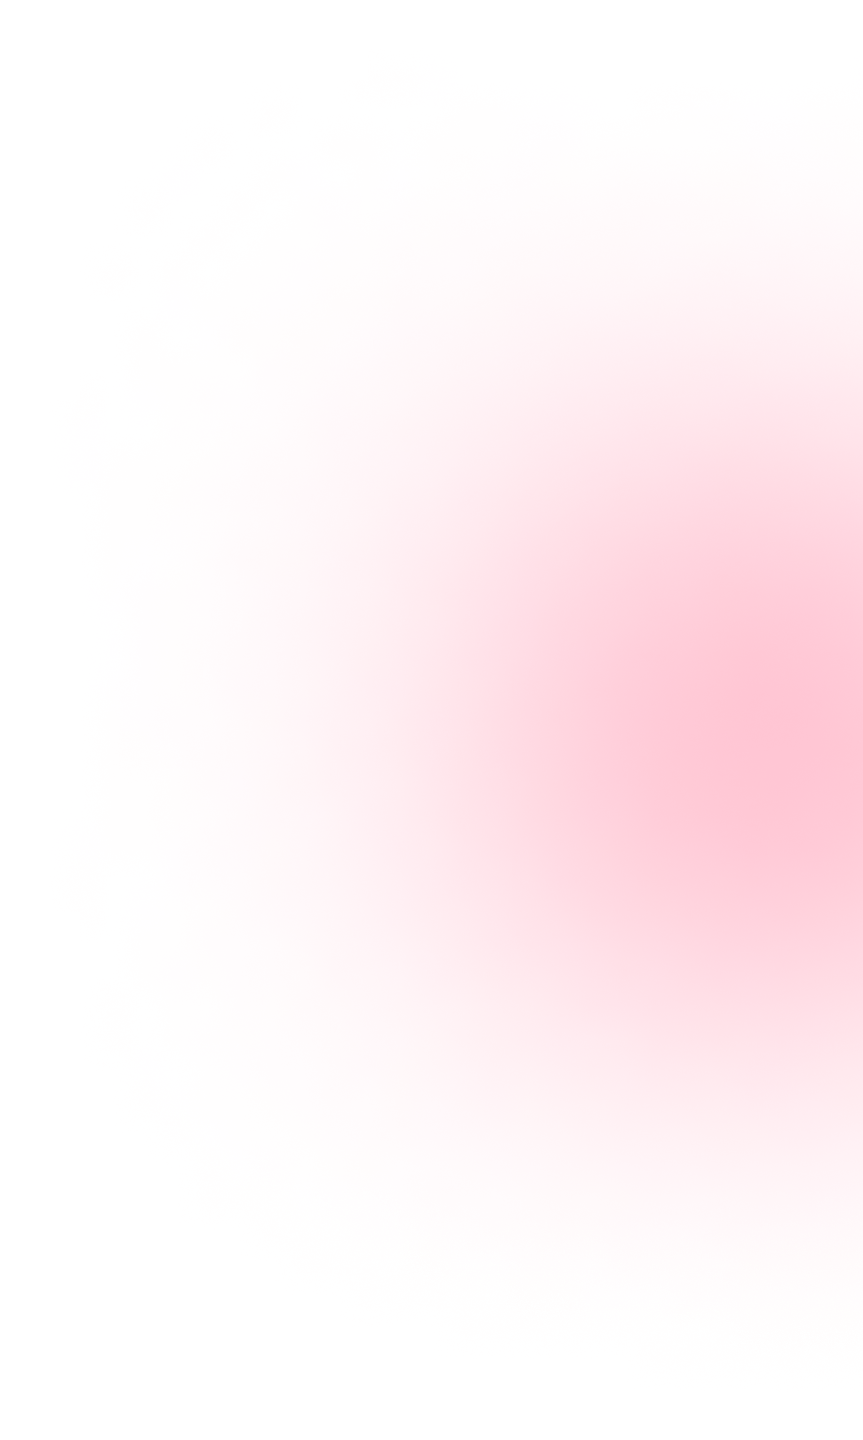
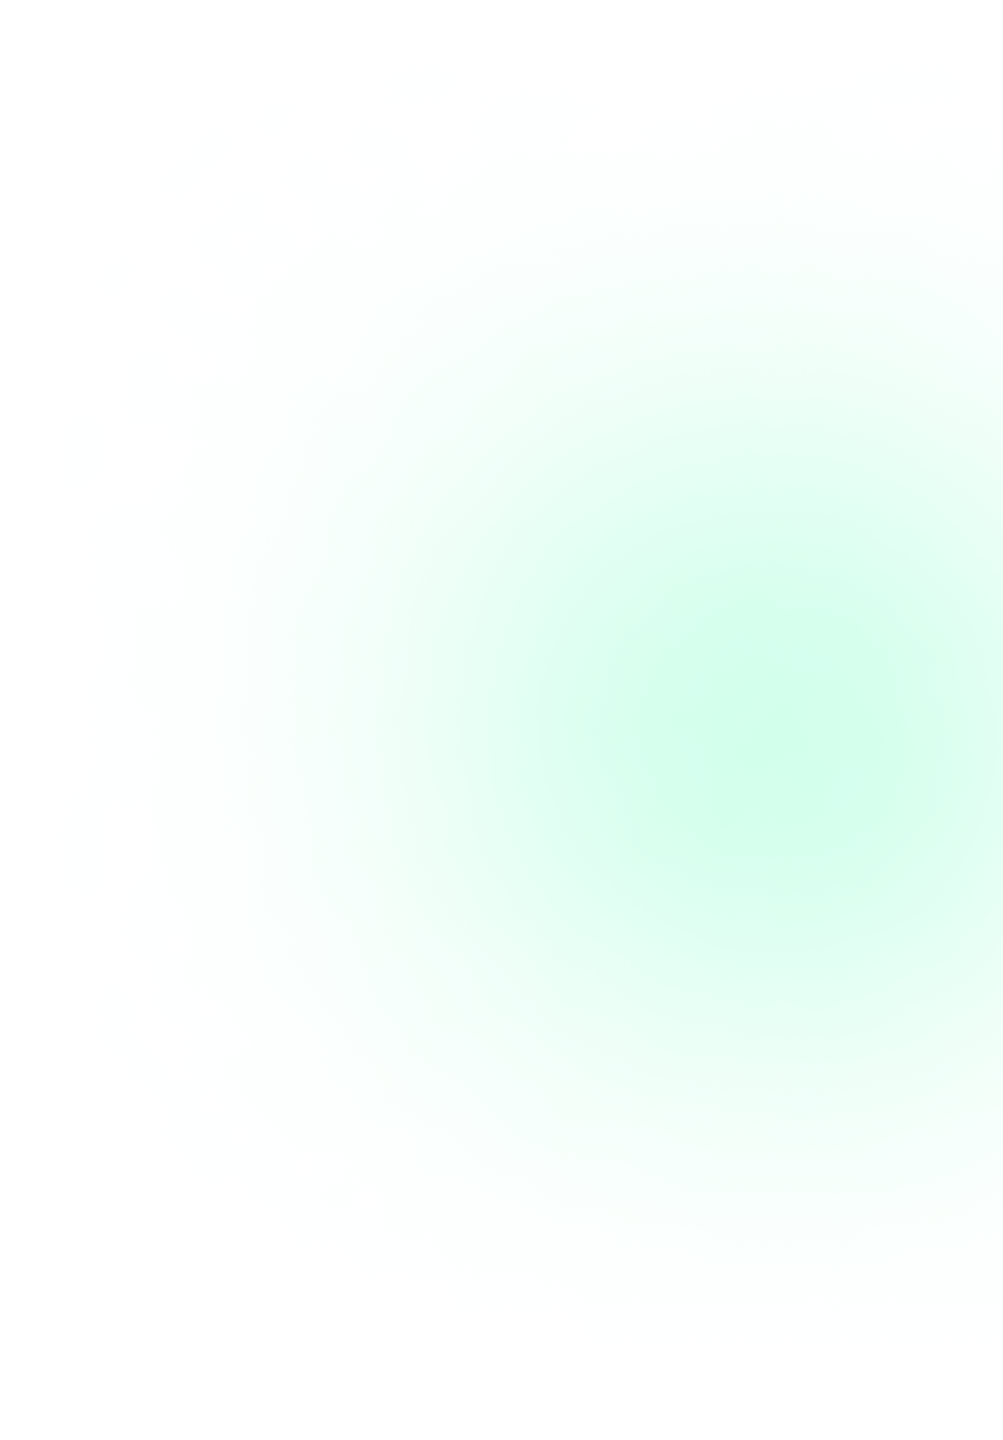
deploy 6

Changed region(s): [[0.482, 0.2812, 1.0, 0.75]]

diff --git a/src/components/ThirdSection.jsx b/src/components/ThirdSection.jsx
@@ -1,7 +1,6 @@
 import React from "react";
 import banner from "../components/Video/Pearl_Texture_2.mp4";
 import bg_2 from "../components/backgrounds/bg_2.png";
-import bg_4 from "../components/backgrounds/bg_4.png";
 import bg_5 from "../components/backgrounds/bg_5.png";
 import bg_shadow from "../components/bg/Ellipse 30.png";
 import luksoPng from "../components/images/lukso_png.png";
@@ -39,13 +38,10 @@ function ThirdSection() {
         />
       </div>
       {/* right backgrounds */}
-      <div className="overflow-hidden max-w-[100vw]">
-        <img
-          className="w-[170px] absolute left-[85rem] top-[69rem]"
-          src={bg_4}
-          alt=""
-        />
-      </div>
+      <div className="bgShadownConq"></div>
+
+      <div className="bgShadow2"></div>
+      <div className="bgShadow3"></div>
 
       <div className="StatrBg">
         {/* <img
@@ -90,8 +86,8 @@ function ThirdSection() {
             loop
           ></video>
         </div>
-        <div className="absolute tarnsform_center top-[10.6rem] text-center flex flex-col ">
-          <h1 className=" relative top-24 transform center headingText max-sm:p-4 font-superLagend text-4xl md:text-5xl max-md:top-[4.4rem] max-sm:top-[5.2rem] max-sm:text-2xl tracking-wide max-w-[1000px]">
+        <div className="absolute tarnsform_center top-[9.6rem] text-center flex flex-col ">
+          <h1 className=" relative top-24 transform center headingText max-sm:p-4 font-superLagend text-4xl md:text-5xl max-md:top-[4.4rem] max-sm:top-[5.2rem] max-sm:text-2xl tracking-wide max-w-[1000px] md:leading-[1.4]">
             Powered By
           </h1>
           <img
@@ -202,7 +198,7 @@ function ThirdSection() {
                   loop
                 ></video>
               </div>
-              <div className="absolute tarnsform_center top-[13.6rem] text-center grid place-items-center">
+              <div className="absolute tarnsform_center top-[12rem] text-center grid place-items-center">
                 <h1 className=" relative top-10 transform center headingText max-sm:p-4 font-superLagend md:text-[64px] max-md:top-[4.4rem] max-sm:top-[5.2rem] max-sm:text-2xl tracking-wide max-w-[1000px]">
                   Running On
                 </h1>
@@ -284,7 +280,7 @@ function ThirdSection() {
                 ))}
 
                 <div className="relative my-[3rem] md:my-[4.2rem] ">
-                  <p className="max-md:p-6  text-left font-superLagend max-sm:leading-relaxed leading-loose  para_styling ">
+                  <p className="max-md:p-6  text-left font-superLagend max-sm:leading-relaxed leading-loose  para_styling sm:text-[24px]">
                     <span>
                       {/* <img
                         width={800}
@@ -302,7 +298,7 @@ function ThirdSection() {
                     platform. From in-game advantages to VIP event access, your
                     <span className="green_gradient"> NFTs </span> serve as the
                     gateway to having the
-                    <span className="violet_gradient">DWØPE</span>st experience
+                    <span className="violet_gradient"> DWØPE</span>st experience
                     in SuperWeaves.
                   </p>
                 </div>

diff --git a/src/index.css b/src/index.css
@@ -175,9 +175,11 @@ body {
 }
 
 .card-title {
-  background: linear-gradient(to right, #000000, #a4047c);
+  background: linear-gradient(to right, #000000, #a4047c, #000, #a4047c);
   -webkit-text-fill-color: transparent;
   -webkit-background-clip: text;
+  background-size: 500% auto;
+  animation: textShine 3s ease-in-out infinite alternate;
 }
 
 .card-para {
@@ -318,18 +320,22 @@ p {
   -webkit-background-clip: text;
 }
 .pink_colour {
-  background: linear-gradient(0deg, #fe005b, #fe005b);
+  background: linear-gradient(90deg, #fe005b, #fe4c8c, #fe005b, #fe4c8c);
   -webkit-background-clip: text;
   background-clip: text;
   -webkit-text-fill-color: transparent;
   -webkit-text-fill-color: transparent;
+  background-size: 500% auto;
+  animation: textShine 3s ease-in-out infinite alternate;
 }
 
 .violet_gradient {
-  background: linear-gradient(94.85deg, #a4047c, #8f8ecc);
+  background: linear-gradient(94.85deg, #a4047c, #8f8ecc, #a4047c, #8f8ecc);
   -webkit-background-clip: text;
   background-clip: text;
   -webkit-text-fill-color: transparent;
+  background-size: 500% auto;
+  animation: textShine 3s ease-in-out infinite alternate;
 }
 .tarnsform_center {
   left: 50%;
@@ -358,9 +364,11 @@ p {
 
 .green_gradient {
   background: #017e3d;
-  background: linear-gradient(93.63deg, #017e3d, #000000);
+  background: linear-gradient(93.63deg, #017e3d, #000000, #017e3d, #000000);
   -webkit-background-clip: text;
   -webkit-text-fill-color: transparent;
+  background-size: 500% auto;
+  animation: textShine 3s ease-in-out infinite alternate;
 }
 
 .headingText {
@@ -454,7 +462,7 @@ p {
     width: 95vw;
   }
 }
-
+/* background images  */
 .faqRBg1 {
   position: absolute;
   bottom: 24rem;
@@ -495,12 +503,46 @@ p {
 
 .StatrBg {
   position: absolute;
-  top: 286rem;
-  right: -84px;
+  top: 136rem;
+  right: 0;
   background: url("./components/backgrounds/bg_3.png");
-  background-position: right;
   background-repeat: no-repeat;
-  background-size: auto;
   height: 70%;
-  width: 300px;
+  width: 240px;
+}
+
+.bgShadownConq {
+  position: absolute;
+  top: 70rem;
+  right: 0;
+  background: url("./components/backgrounds/bg_4.png");
+  background-repeat: no-repeat;
+  background-size: cover;
+  height: 400px;
+  width: 160px;
+}
+.bgShadow2 {
+  position: absolute;
+  top: 335rem;
+  z-index: -99;
+  right: -50px;
+  background: url("./components/bg/Ellipse3.png");
+  background-repeat: no-repeat;
+  background-size: contain;
+  height: 1000px;
+  width: 500px;
+  opacity: 0.7;
+}
+
+.bgShadow3 {
+  position: absolute;
+  top: 176rem;
+  z-index: -99;
+  right: -50px;
+  background: url("./components/bg/Ellipse\ 4.png");
+  background-repeat: no-repeat;
+  background-size: contain;
+  height: 1000px;
+  width: 500px;
+  opacity: 0.8;
 }

diff --git a/src/components/Meta.jsx b/src/components/Meta.jsx
@@ -79,7 +79,7 @@ function Meta() {
                   The Metaverse's <br />
                   Game-Changer
                 </h1>
-                <p className="w-[35rem] text-[1.37rem] leading-[36px] text-justify card-para  max-sm:w-full mt-6 max-sm:mt-4 max-sm:text-xl max-sm:p-4  max-sm:leading-relaxed text-lg font-superLagend">
+                <p className="w-[35rem] leading-[36px] text-justify card-para  max-sm:w-full mt-6 max-sm:mt-4 max-sm:text-xl max-sm:p-4  max-sm:leading-relaxed text-[1.37rem] font-superLagend">
                   Welcome to <span className="pink_colour">SuperWeaves</span>,
                   the first application built by{" "}
                   <span className="violet_gradient">DWØPE.</span> This super app

diff --git a/src/components/Home.jsx b/src/components/Home.jsx
@@ -2,7 +2,7 @@ import { useEffect, useState } from "react";
 import Hero from "./Hero";
 import Meta from "./Meta";
 import ThirdSection from "./ThirdSection";
-import logo from "./Video/9f4e2d1fc36835123a4b3e8cc10017bc.gif";
+import logo from "./Video/public (1).gif";
 
 function Home() {
   const [scrolled, setScrolled] = useState(false);
